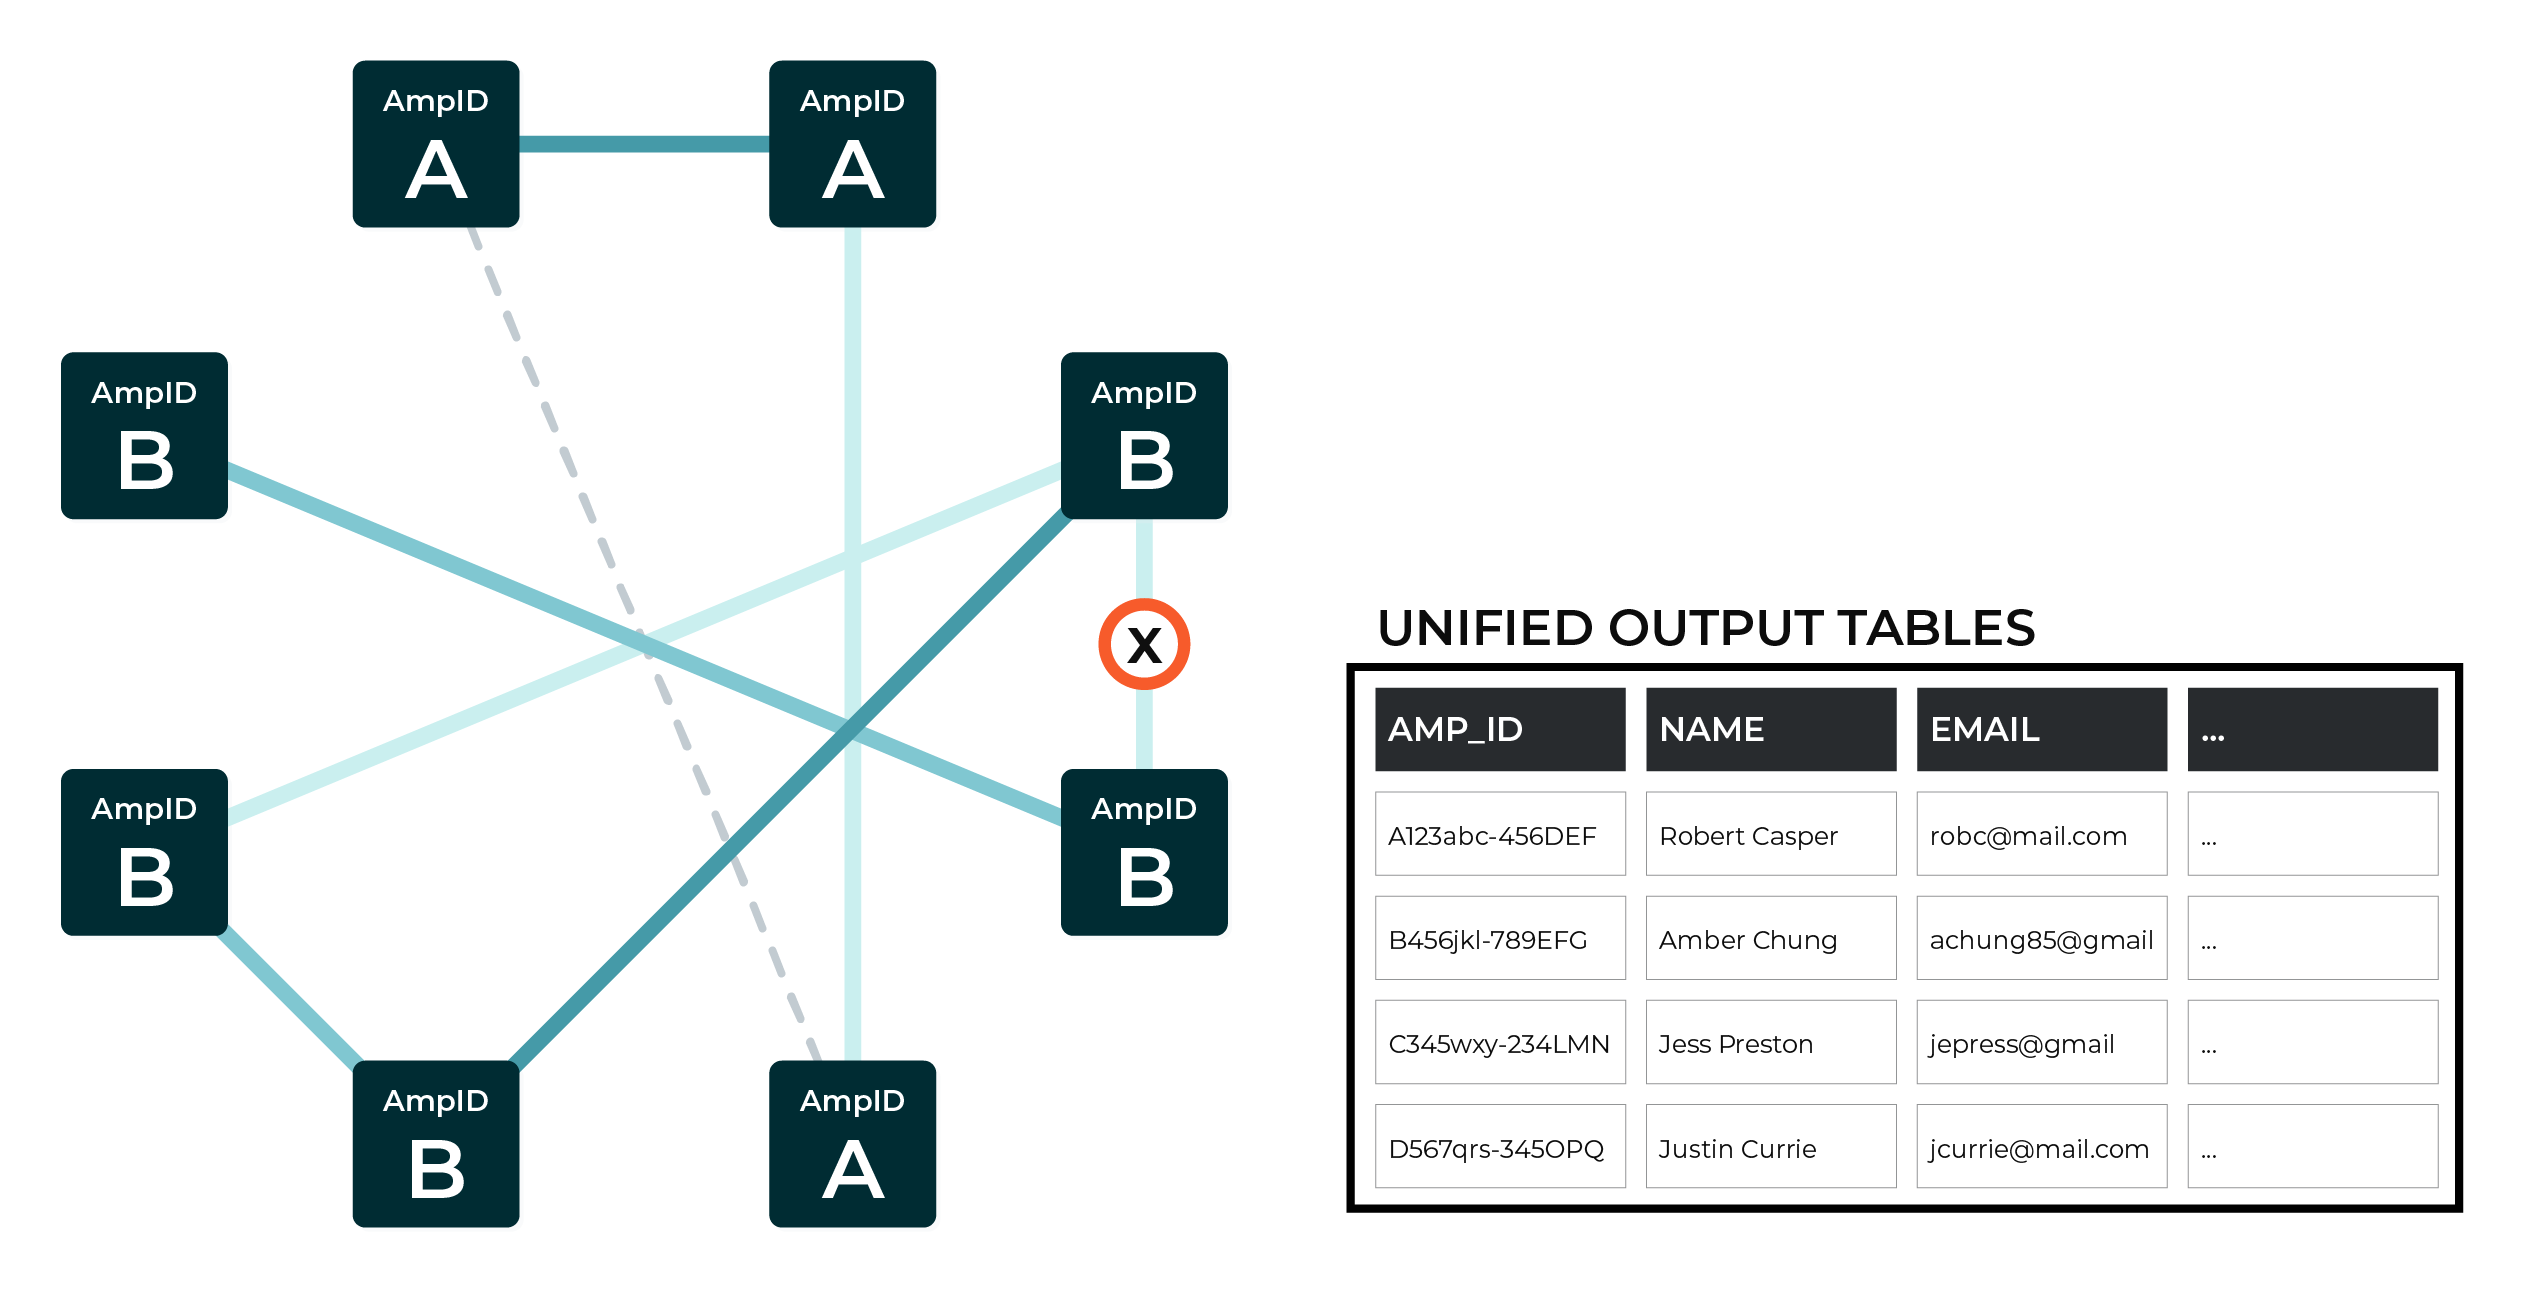
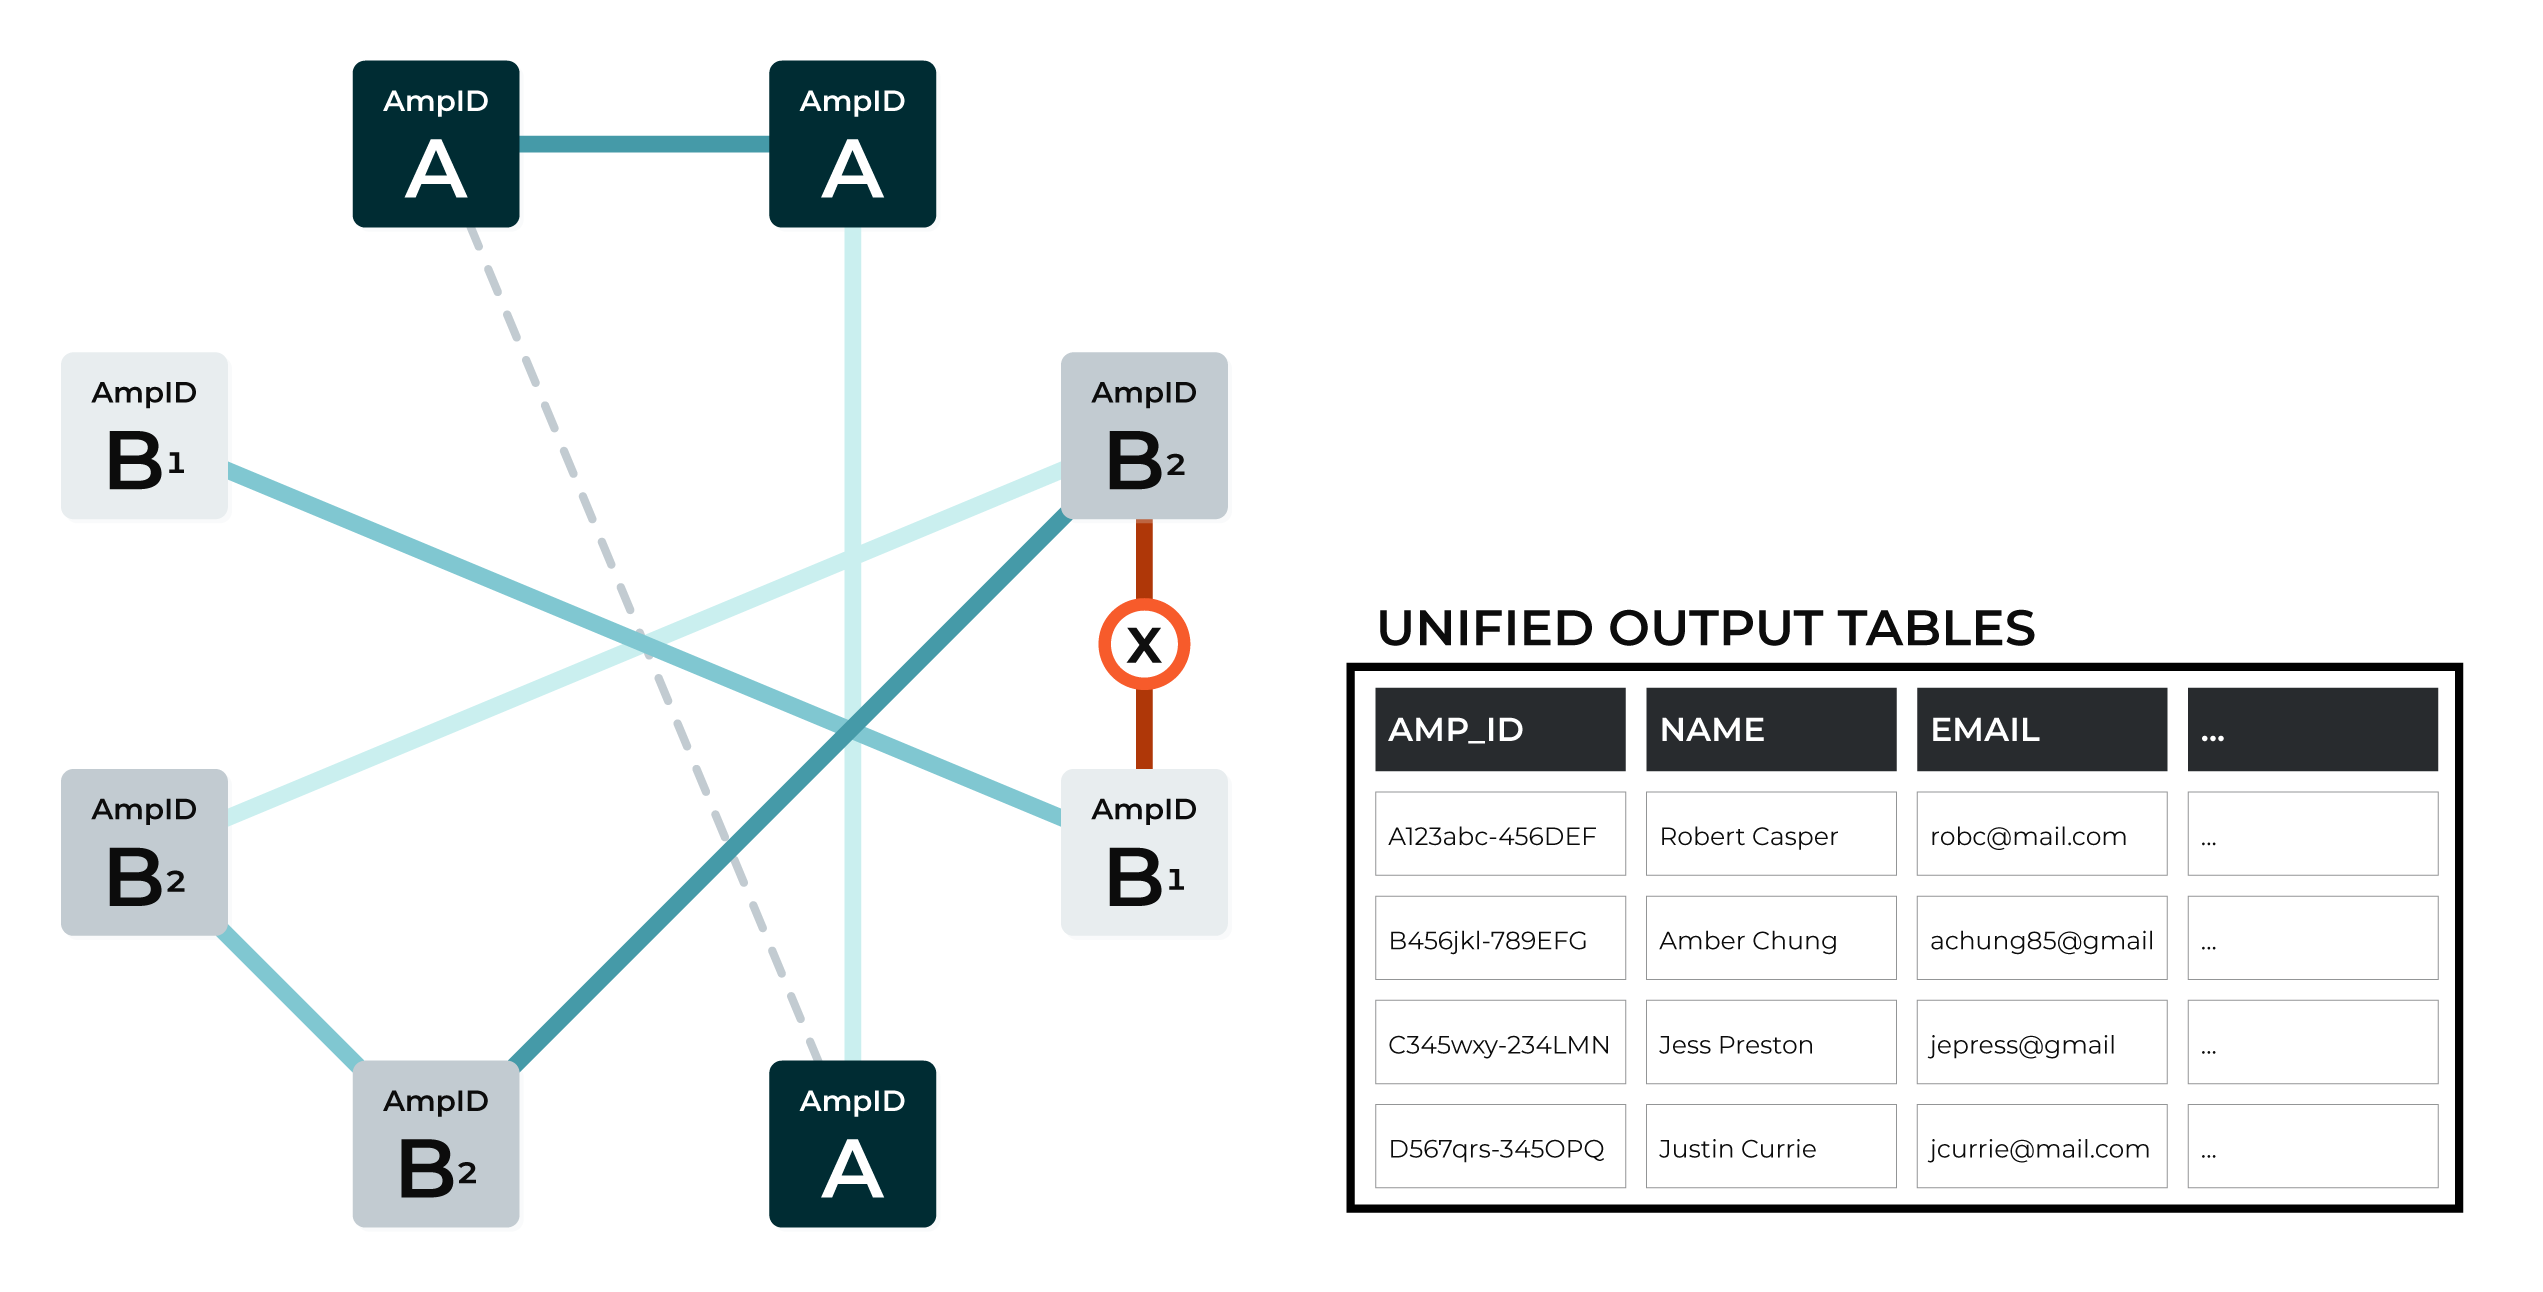
edit hierarchical comparison; update image to better show the split

diff --git a/amperity_reference/source/stitch.rst b/amperity_reference/source/stitch.rst
@@ -932,7 +932,7 @@ A hierarchical comparison that identifies enough conflicting data will allow Amp
 
 .. stitch-hierarchical-comparison-diagram-two-records-start
 
-This example shows a group of records that has been identified by hierarchical comparison to represent two individuals, after which they are split into two groups of records.
+This example shows a group of records (shown in the diagram as record set B) that has been identified by hierarchical comparison to represent two individuals, after which they are split into two groups of records (shown in the diagram as record sets B1 and B2).
 
 .. stitch-hierarchical-comparison-diagram-split-records-end
 
